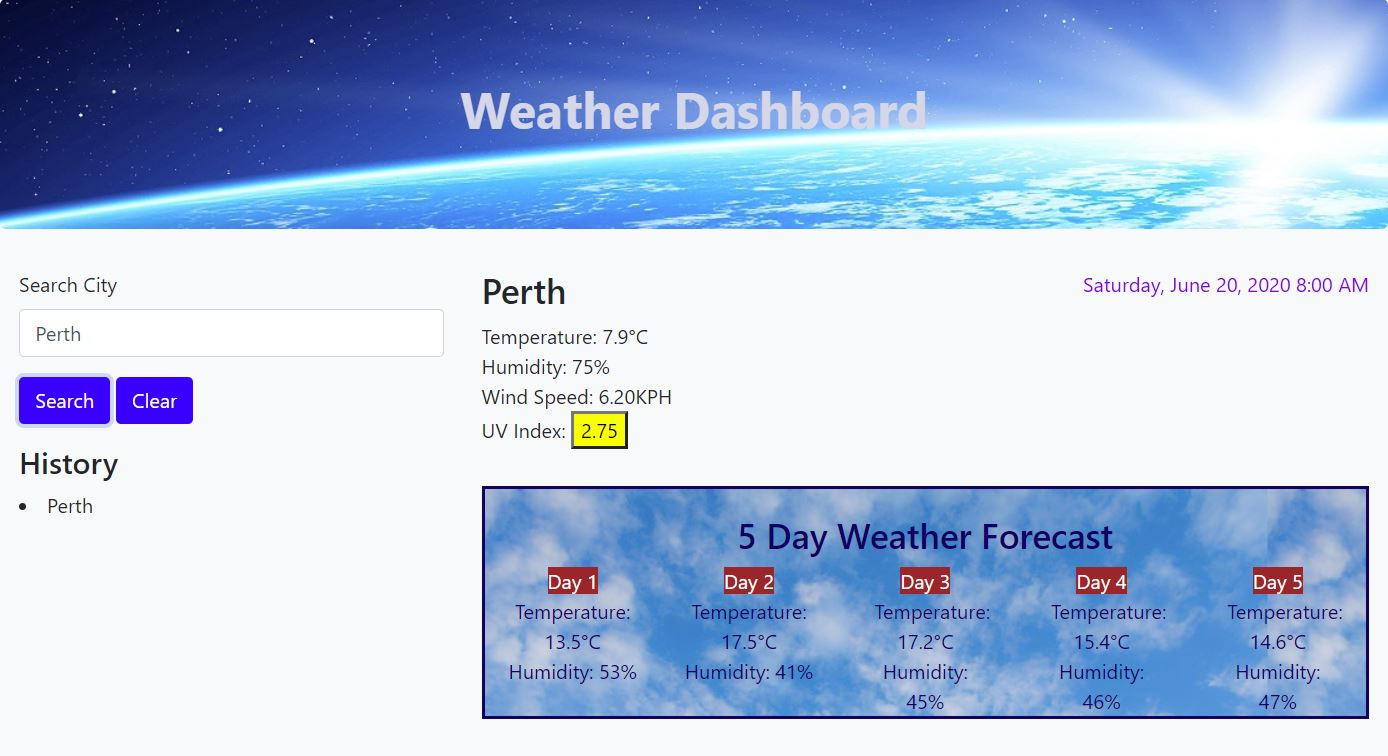
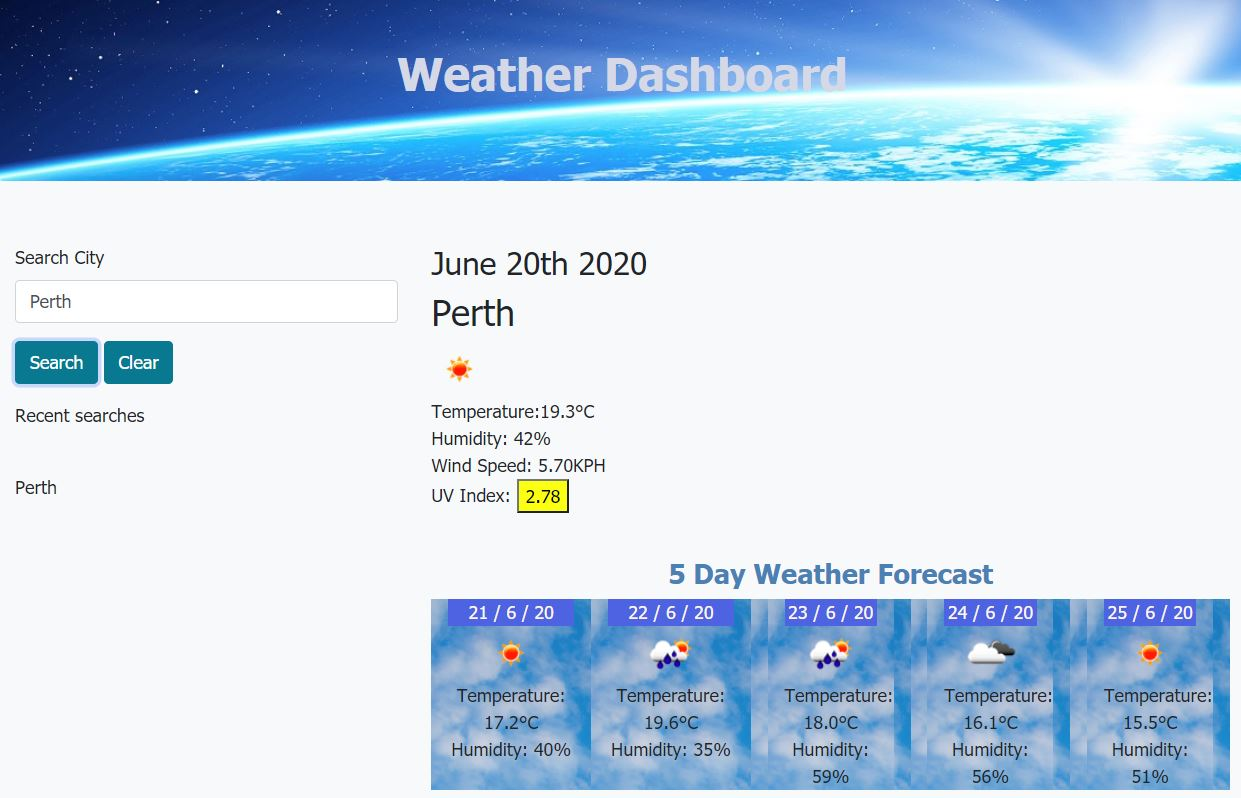
css improved

diff --git a/Assets/style.css b/Assets/style.css
@@ -1,6 +1,7 @@
 body {
     font-size: 16px;
     font-family: Tahoma;
+    background-color: thistle;
 }
 li { 
     list-style-type: none;
@@ -8,6 +9,8 @@ li {
 h4 {
     font-weight: bold;
     padding-top: 40px;
+    text-align: center;
+    color: steelblue;
 }
 
 .jumbotron {
@@ -17,6 +20,20 @@ h4 {
     align-items: center;
     background-image: url('../Assets/Images/background.jpg');
  
+}
+
+.col-sm{
+background-image: url(../Assets/Images/back1.jpg);
+text-align: center;
+font-size: medium;
+
+}
+
+#city-date1, #city-date2,#city-date3,#city-date4,#city-date5 {
+
+    background-color: royalblue;
+    color: seashell;
+
 }
 
 #btnSearch {
@@ -50,3 +67,4 @@ h4 {
     background-color: purple;
     color: white;
 }
+

diff --git a/Assets/script.js b/Assets/script.js
@@ -135,7 +135,6 @@ function renderCityNames() {
         li.text(keepCities[i]);
         li.attr("data-index", i);
         var button = $("<p>");
-        //button.text("City Searched");
         li.append(button);
         displayCity.append(li);
 

diff --git a/index.html b/index.html
@@ -63,6 +63,7 @@
             <div class="uvIndex"></div>
           
           <div class="container">
+            <h4>5 Day Weather Forecast</h4>
             <div class="row">
               <div class="col-sm">
                 <div id="day1">

diff --git a/README.md b/README.md
@@ -17,6 +17,7 @@ This project is a weather dashboard app with search functionality to find curren
 
 ## Screenshot
 
-![screenshot](https://user-images.githubusercontent.com/64518932/85186763-69208480-b2cd-11ea-92e5-206ececa5b61.JPG)
+![screenshot](https://user-images.githubusercontent.com/64518932/85196670-6d20c680-b30e-11ea-86b1-f5ab745ade7f.JPG)
+
 
 
